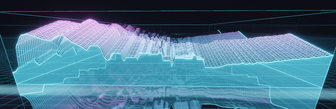
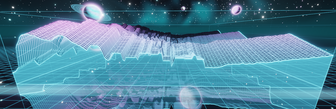
GPU waterfall: night sky reflected in the glass floor, surface grid, cheaper stereo
- Procedural night sky (scenes/sky.wgsl): stars, nebula band, ringed planet, small
  planet and moons tinted from the theme. Bass onsets flare the stars and planet
  atmospheres, hits send a shockwave across the sky, sustained bass swells the haze.
  The floor mirrors it, and the floor and far terrain fade into the horizon haze.
- The floor grid now lies on the surface at zero level instead of sunk below it, so
  the terrain, walls and their reflections meet it at the same place.
- Draw the opaque terrain first so the depth test skips the floor and reflections
  behind it; discard empty pixels of the stereo overlays instead of blending zeros.
  Together these paid for the sky: waterfall scene ~3.5 ms mixed / ~5.0 ms stereo,
  120 fps at 5120x1440.
- Cost hints updated (waterfall 3.6 ms, stereo +1.6); README, plan results table and
  waterfall thumbnails refreshed.

diff --git a/gpu/src/scenes/waterfall.rs b/gpu/src/scenes/waterfall.rs
@@ -1,8 +1,9 @@
 use super::*;
 
 /// Spectrum history as a scrolling wireframe terrain inside a box of glass walls (front, both sides
-/// and back), standing on a glass floor that reflects all of it.
+/// and back), standing on a glass floor under a night sky; the floor reflects all of it.
 pub struct Waterfall {
+    sky: wgpu::RenderPipeline,
     floor: wgpu::RenderPipeline,
     terrain_refl: wgpu::RenderPipeline,
     wall_refl: wgpu::RenderPipeline,
@@ -21,12 +22,15 @@ const REFL_CELLS: u32 = 96 * 96 * 6;
 
 impl Waterfall {
     pub fn new(ctx: &Ctx) -> Waterfall {
-        let sh = ctx.module("waterfall", include_str!("waterfall.wgsl"));
+        let sh = ctx.module("waterfall", &format!("{}\n{}", include_str!("sky.wgsl"), include_str!("waterfall.wgsl")));
         let overlay = Pipe { depth_write: false, always: false, blend: ADDITIVE, msaa: true };
         let glass = Pipe { depth_write: false, always: false, blend: ALPHA, msaa: true };
         // the floor is glass: it does not write depth, so the mirrored scene below it shows through
         let floor = Pipe { depth_write: false, always: false, blend: None, msaa: true };
+        // the sky is a backdrop painted first, over the part of the screen at or above the horizon
+        let sky = Pipe { depth_write: false, always: true, blend: None, msaa: true };
         Waterfall {
+            sky: ctx.pipeline(&sh, "sky", "vs_sky", "fs_sky", sky),
             floor: ctx.pipeline(&sh, "wfloor", "vs_wfloor", "fs_wfloor", floor),
             terrain_refl: ctx.pipeline(&sh, "ter_refl", "vs_ter_refl", "fs_ter_refl", overlay),
             wall_refl: ctx.pipeline(&sh, "wall_refl", "vs_wall_refl", "fs_wall_refl", overlay),
@@ -44,23 +48,31 @@ impl Waterfall {
 
 impl Scene for Waterfall {
     fn draw(&self, pass: &mut wgpu::RenderPass<'_>, f: &Frame) {
+        let stereo = f.p.mode == 1;
+        pass.set_pipeline(&self.sky);
+        pass.draw(0..6, 0..1);
+        if !stereo {
+            // The opaque terrain goes first so the depth test skips the floor and reflections behind it.
+            // That cannot change the picture: along any view ray the real terrain is nearer than the floor
+            // and than anything mirrored below it.
+            pass.set_pipeline(&self.terrain);
+            pass.draw(0..CELLS, 0..1);
+        }
         pass.set_pipeline(&self.floor);
         pass.draw(0..6, 0..1);
-        // reflections first: the real terrain is opaque and covers them where it stands
+        // reflections: drawn over the floor, below the glass
         pass.set_pipeline(&self.terrain_refl);
-        pass.draw(0..REFL_CELLS, 0..if f.p.mode == 1 { 2 } else { 1 });
+        pass.draw(0..REFL_CELLS, 0..if stereo { 2 } else { 1 });
         pass.set_pipeline(&self.wall_refl);
         pass.draw(0..6, 0..1);
         pass.set_pipeline(&self.side_refl);
         pass.draw(0..6, 0..2); // left, right
         pass.set_pipeline(&self.back_refl);
         pass.draw(0..6, 0..1);
-        if f.p.mode == 1 {
+        if stereo {
+            // the stereo wireframes add together with no occlusion, so they cannot go first
             pass.set_pipeline(&self.terrain_stereo);
             pass.draw(0..CELLS, 0..2); // left, right
-        } else {
-            pass.set_pipeline(&self.terrain);
-            pass.draw(0..CELLS, 0..1);
         }
         // glass back to front
         pass.set_pipeline(&self.back);

diff --git a/gpu/src/app.rs b/gpu/src/app.rs
@@ -472,7 +472,7 @@ impl App {
 
 /// Estimated GPU milliseconds of a scene at 5120x1440; the stereo waterfall draws two meshes.
 fn scene_cost_of(scene: u32, stereo_waterfall: bool) -> f32 {
-    scenes::info(scene).cost_ms + if scene == scenes::WATERFALL && stereo_waterfall { 2.2 } else { 0.0 }
+    scenes::info(scene).cost_ms + if scene == scenes::WATERFALL && stereo_waterfall { 1.6 } else { 0.0 }
 }
 
 fn scene_cost(r: &Resolved) -> f32 {

diff --git a/gpu/src/scenes/mod.rs b/gpu/src/scenes/mod.rs
@@ -145,7 +145,7 @@ const INFOS: [SceneInfo; 3] = [
         name: "Waterfall",
         cam: CamLimits { yaw: f32::INFINITY, pitch: (-1.5, 1.5), zoom: (0.35, 3.0) },
         controls: &[Control::WaterfallChannels, Control::WaterfallDetail],
-        cost_ms: 3.0,
+        cost_ms: 3.6,
     },
     SceneInfo {
         id: TUNNEL,

diff --git a/gpu/VISUALIZATION_PLAN.md b/gpu/VISUALIZATION_PLAN.md
@@ -607,13 +607,13 @@ timestamp queries).
 | Scene | fps | frame median / p99 | Scene GPU | Bloom GPU |
 |-------|-----|--------------------|-----------|-----------|
 | 3D columns | 120.0 | 8.33 / 9.1 ms | 2.1 ms | 0.45 ms |
-| Waterfall (mixed / stereo), with glass floor and walls | 120.0 | 8.33 / 9.1 ms (stereo 9.8) | 3.1 / 5.3 ms | 0.45 ms |
+| Waterfall (mixed / stereo), with glass floor, walls and sky | 120.0 | 8.33 / 9.0 ms (stereo 9.1) | 3.5 / 5.0 ms | 0.45 ms |
 | Spectrum Tunnel | 120.0 | 8.33 / 9.0 ms | 2.75 ms | 0.45 ms |
 
 Transitions also hold 120.0 fps (p99 9-11 ms). The compositor estimates the cost of both scenes and
 crossfades live only if it fits 6.6 ms of GPU time; otherwise the outgoing scene is rendered once and
 held as a still image (this is the plan's frozen-image fallback; with today's costs
-tunnel/tunnel and any pair that includes the stereo waterfall take it). Source-to-UI latency for an impulse is
+tunnel/tunnel, waterfall/waterfall and any pair that includes the stereo waterfall take it). Source-to-UI latency for an impulse is
 about 4 ms median (12 ms worst) after a detection delay of up to one 10 ms hop.
 
 **Findings worth keeping**
@@ -621,6 +621,17 @@ about 4 ms median (12 ms worst) after a detection delay of up to one 10 ms hop.
 - The tunnel's first version cost 4.4 ms, mostly one loop: evaluating every ring's three `exp()` per
   pixel. Culling by distance from each ring took it to 2.75 ms. Bisecting with GPU timings beat
   guessing: palette work and MSAA were both smaller than expected (MSAA off saves about a third of the tunnel).
+- The waterfall's night sky first cost 3 ms (the scene went from 3.1 to 6.1 ms). What brought it back to
+  3.5 ms: every part of the sky bounds its own work (stars skip the horizon, a planet is one dot product
+  away from its disc, the nebula lives in its band); stars sit on a cube-face grid instead of needing
+  `asin`/`atan2`/`cos` per pixel, and most pixels in a star's cell leave early; the backdrop is a quad
+  clipped to the horizon rather than the whole screen; and the mirror skips what a blurred image does not
+  show. The biggest single gains were structural: drawing the opaque terrain first so the depth test skips
+  the floor and reflections behind it (-0.6 ms), and discarding the stereo overlay's empty pixels instead of
+  blending zeros (-1.2 ms in stereo, which ended up cheaper than before the sky).
+- The camera's far plane (100 units) clips the floor long before its 600-unit edge. Once the fog at the
+  horizon was lighter than the clear colour that showed as a black strip, so the sky quad now reaches below
+  the horizon far enough to paint the fog there.
 - `pow(x, y)` with a slightly negative `x` is NaN in WGSL, and 4x MSAA can extrapolate an attribute
   just outside its range at triangle edges. One NaN pixel spread through the bloom pyramid into a
   screen-sized black block. Interpolated values are now clamped and the bloom input is sanitized.

diff --git a/README.md b/README.md
@@ -44,8 +44,11 @@ Needs Rust (rustup) and a Vulkan-capable GPU. It holds 120 fps at 5120x1440 on a
 - **Waterfall** - the spectrum history as a wireframe terrain (mixed or stereo overlay), inside glass
   walls on all four sides. The front wall carries the live spectrum line; each side wall carries the
   terrain's edge and the back wall the oldest row, so their lines follow where the waterfall meets the
-  glass. It stands on a glass floor: a mirrored copy of the terrain and walls, a grid seen through the surface, light
-  cast by the walls, and sheen from overhead light bars.
+  glass. It stands on a glass floor under a night sky: stars, a nebula band, a ringed planet, a small
+  planet and moons, all tinted from the theme. Bass hits flare the stars and planet atmospheres and send
+  a shockwave across the sky, and the floor mirrors all of it, along with the terrain and walls. A grid
+  is etched into the surface at zero level, and the walls cast a little light onto the glass, with
+  sheen from overhead light bars.
 
 **Controls.** `F`/`F11` full screen, `Esc` leaves, `Left`/`Right` change scene, `1`-`9` pick a preset
 (your favorites, else the whole catalog), `L` opens the look browser. In full screen a compact strip
